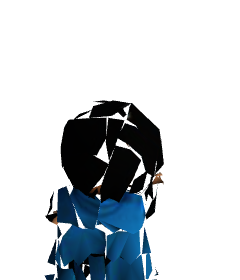
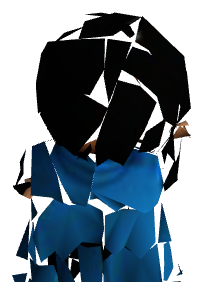
ガイド：兵の絵を画素の範囲で切り出し、ルールに対局画面の写真、操作に一般的な語
兵の絵は描画後の不透明な画素の範囲を切り取り、四辺に同じ余白で中央に置く。
大将は青1枚に。ルールの4場面（討つ直前・直後、進化、大将が危ない、追い詰めた）
を ?sfen= で局面を開いて撮り、assets/guide/rule-*.jpg（各 100KB 未満）に置く。
操作の見出しにタップ・ピンチアウト・ドラッグ・ズームアウトを添える。

Claude-Session: https://claude.ai/code/session_013nKbqTkPJMSRT9nEeyhNhc

diff --git a/guide.html b/guide.html
@@ -47,9 +47,12 @@
   /* 兵の絵。対局画面と同じモデルを俯角35度で撮ったもの（PNG は透明）。下地は対局画面の
      地面＝舞台絵 assets/stage/honjin.jpg の、陣幕より下の土の平均色。 */
   td.pic{width:1%;white-space:nowrap}
-  td.pic img{width:64px;height:auto;display:inline-block;vertical-align:middle;
-    background:#aa884b;border-radius:6px}
-  td.pic img + img{margin-left:3px}       /* 大将は青と赤を並べる */
+  td.pic img{height:64px;width:auto;display:block;background:#aa884b;border-radius:6px}
+  /* 対局画面の写真。2枚並べるときは左が直前、右が直後。 */
+  .shot{display:flex;gap:6px;margin:8px 0 4px}
+  .shot img{width:calc(50% - 3px);height:auto;border-radius:4px;border:1px solid var(--line)}
+  .shot.one img{width:56%}
+  .cap{color:var(--dim);font-size:11px;margin:0 0 10px}
   /* 動きの図。3×3 のマス目。上が敵陣。 */
   .mv{display:inline-grid;grid-template-columns:repeat(3,14px);grid-auto-rows:14px;gap:1px;
     vertical-align:middle;font-size:11px;line-height:14px;text-align:center;color:var(--hit)}
@@ -74,7 +77,7 @@
   <section id="hei" hidden>
     <h2>兵</h2>
     <p class="lead">自軍は8種類・20人。討ち取った敵の兵も自軍になる。</p>
-    <p class="note">図は自軍の兵から見た動き。上が敵陣。●が兵、○が行ける先、矢印は「その方向へ何マスでも（途中に兵がいれば手前で止まる）」。絵は対局画面と同じ見え方で、青が自軍。</p>
+    <p class="note">図は自軍の兵から見た動き。上が敵陣。●が兵、○が行ける先、矢印は「その方向へ何マスでも（途中に兵がいれば手前で止まる）」。絵は対局画面と同じ見え方（自軍は奥向き）。敵軍は同じ姿で赤。</p>
     <table>
       <tr><th></th><th>兵</th><th>動き</th></tr>
       <tr><td class="pic"><img src="./assets/guide/fu.png" alt=""></td><td class="name">歩兵<small>（歩）</small></td>
@@ -91,7 +94,7 @@
         <td><span class="mv"><span>↖</span><span class="no">・</span><span>↗</span><span class="no">・</span><span class="me">●</span><span class="no">・</span><span>↙</span><span class="no">・</span><span>↘</span></span> 斜めへ何マスでも</td></tr>
       <tr><td class="pic"><img src="./assets/guide/hisha.png" alt=""></td><td class="name">鉄砲兵<small>（砲）</small></td>
         <td><span class="mv"><span class="no">・</span><span>↑</span><span class="no">・</span><span>←</span><span class="me">●</span><span>→</span><span class="no">・</span><span>↓</span><span class="no">・</span></span> 縦横へ何マスでも</td></tr>
-      <tr><td class="pic"><img src="./assets/guide/gyoku.png" alt=""><img src="./assets/guide/gyoku_red.png" alt=""></td><td class="name">大将</td>
+      <tr><td class="pic"><img src="./assets/guide/gyoku.png" alt=""></td><td class="name">大将</td>
         <td><span class="mv"><span>○</span><span>○</span><span>○</span><span>○</span><span class="me">●</span><span>○</span><span>○</span><span>○</span><span>○</span></span> どの方向へも1マス。追い詰められると負け</td></tr>
     </table>
     <p class="note">括弧の一文字は控え欄（画面下）に出る印。大将は控えに入らない。</p>
@@ -113,6 +116,8 @@
 
     <h3 id="rule-kachi">勝ち負け</h3>
     <p class="lead">敵の大将を追い詰めたら勝ち。</p>
+    <div class="shot one"><img src="./assets/guide/rule-mate.jpg" alt=""></div>
+    <p class="cap">控えの近衛兵を投入して敵の大将を追い詰めたところ。結果カードが出る。</p>
     <ul>
       <li>追い詰める＝敵軍がどう動いても大将を守れない状態</li>
       <li>敵軍に動ける兵がひとつもなくなったときも勝ち</li>
@@ -121,6 +126,8 @@
 
     <h3 id="rule-tounyu">討った兵は控えに入る</h3>
     <p class="lead">敵の兵がいるマスへ動くと討ち取り、その兵は控え（画面下の控え欄）に入る。</p>
+    <div class="shot"><img src="./assets/guide/rule-capture-before.jpg" alt=""><img src="./assets/guide/rule-capture-after.jpg" alt=""></div>
+    <p class="cap">左：自軍の鉄砲兵を選ぶと、討てる敵の鉄砲兵に赤い輪が出る。右：討った直後。控え欄に「砲」が入っている。</p>
     <ul>
       <li>自分の順番に、控えから空いているマスへ投入できる。投入は移動の代わりの1行動</li>
       <li>投入した兵は進化する前の姿に戻る</li>
@@ -129,6 +136,8 @@
 
     <h3 id="rule-shinka">進化</h3>
     <p class="lead">敵陣の奥3段に入ると、兵が強くなる（動きは<a href="#hei-shinka">兵の「進化した兵」へ</a>）。</p>
+    <div class="shot one"><img src="./assets/guide/rule-promo.jpg" alt=""></div>
+    <p class="cap">歩兵が奥3段へ入る手。確認が出て、「進化する」を押すと進化後に行ける先が紫で出る。</p>
     <ul>
       <li>領域に入る・領域の中で動く・領域から出る、どの行動でも進化できる</li>
       <li>進化するかどうかは選べる。両方できるときは確認が出る</li>
@@ -138,6 +147,8 @@
 
     <h3 id="rule-abunai">大将が危ない</h3>
     <p class="lead">敵が次の行動で大将を討てるとき、行動の表示に赤く「大将が危ない」と出る。</p>
+    <div class="shot one"><img src="./assets/guide/rule-check.jpg" alt=""></div>
+    <p class="cap">敵の鉄砲兵が自軍の大将に迫っている。大将のマスが赤く、行動の表示に「大将が危ない」。</p>
     <ul>
       <li>このときは大将を守る行動しか選べない。逃がす、間に兵を置く、迫っている兵を討つ</li>
       <li>自分から大将を危ない場所へ動かすこともできない</li>
@@ -156,21 +167,21 @@
   <section id="sousa" hidden>
     <h2>操作</h2>
 
-    <h3 id="sousa-ugokasu">兵を動かす</h3>
-    <p class="lead">兵を押すと行ける先が光る。光ったマスを押すと動く。</p>
+    <h3 id="sousa-ugokasu">兵を動かす（押す＝タップ）</h3>
+    <p class="lead">兵を押す（タップ）と行ける先が光る。光ったマスを押すと動く。</p>
     <ul>
       <li>別の場所を押すと選び直し</li>
       <li>敵の兵がいる光ったマスを押すと討ち取る</li>
     </ul>
 
-    <h3 id="sousa-tounyu">控えから投入する</h3>
+    <h3 id="sousa-tounyu">控えから投入する（タップ）</h3>
     <p class="lead">控え欄（画面下）の兵を押すと、置けるマスが光る。</p>
 
-    <h3 id="sousa-kakudai">拡大する</h3>
-    <p class="lead">2本の指で広げると拡大する（最大3倍）。拡大して操作するのが普通の遊び方。</p>
+    <h3 id="sousa-kakudai">拡大する（ピンチアウト）</h3>
+    <p class="lead">2本の指で広げる（ピンチアウト）と拡大する（最大3倍）。拡大して操作するのが普通の遊び方。</p>
     <ul>
-      <li>1本の指でなぞると見る場所が動く</li>
-      <li>「ズーム解除」で等倍に戻る（拡大中だけ出る）</li>
+      <li>1本の指でなぞる（ドラッグ）と見る場所が動く</li>
+      <li>「ズーム解除」（ズームアウト）で等倍に戻る（拡大中だけ出る）</li>
     </ul>
 
     <h3 id="sousa-shinka">進化の確認</h3>
